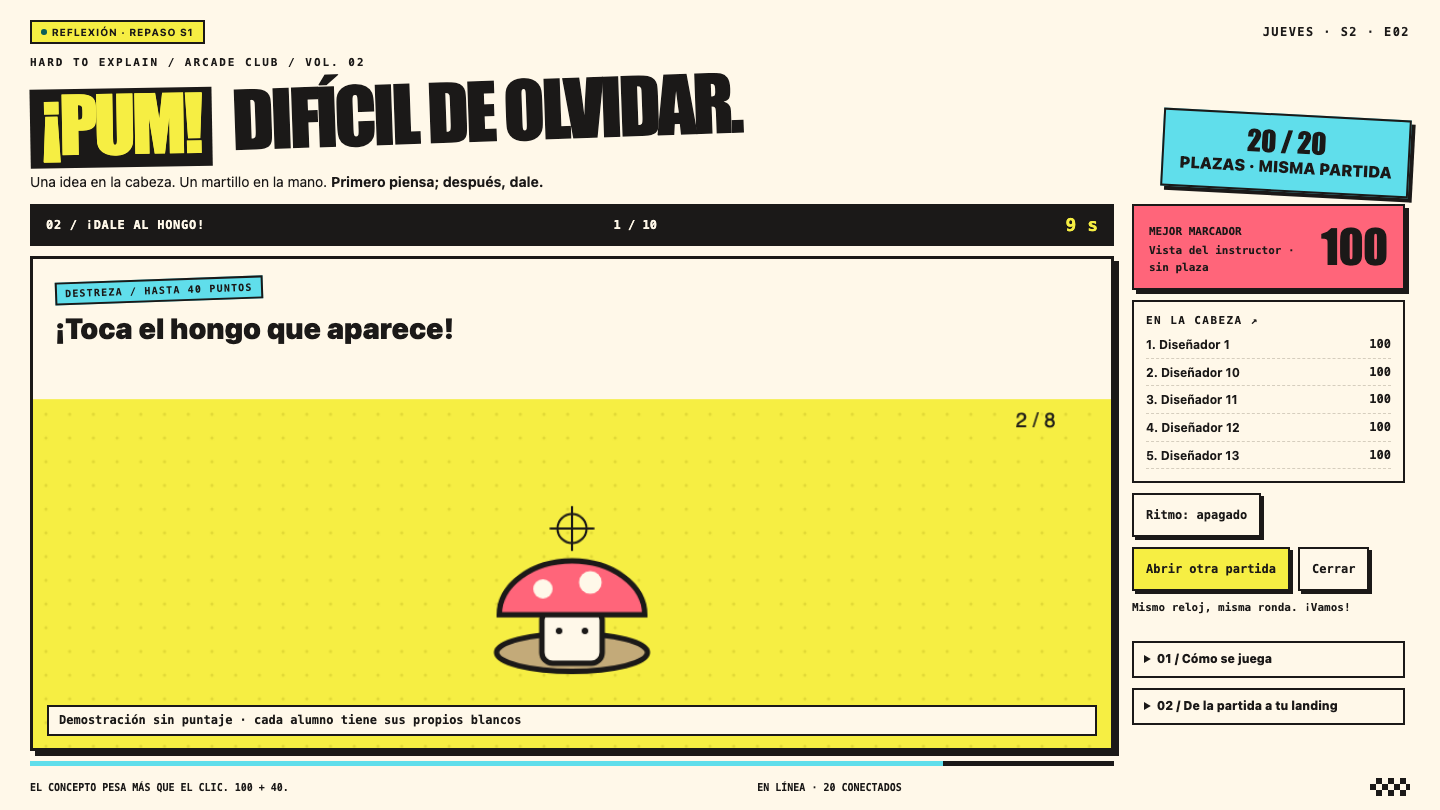
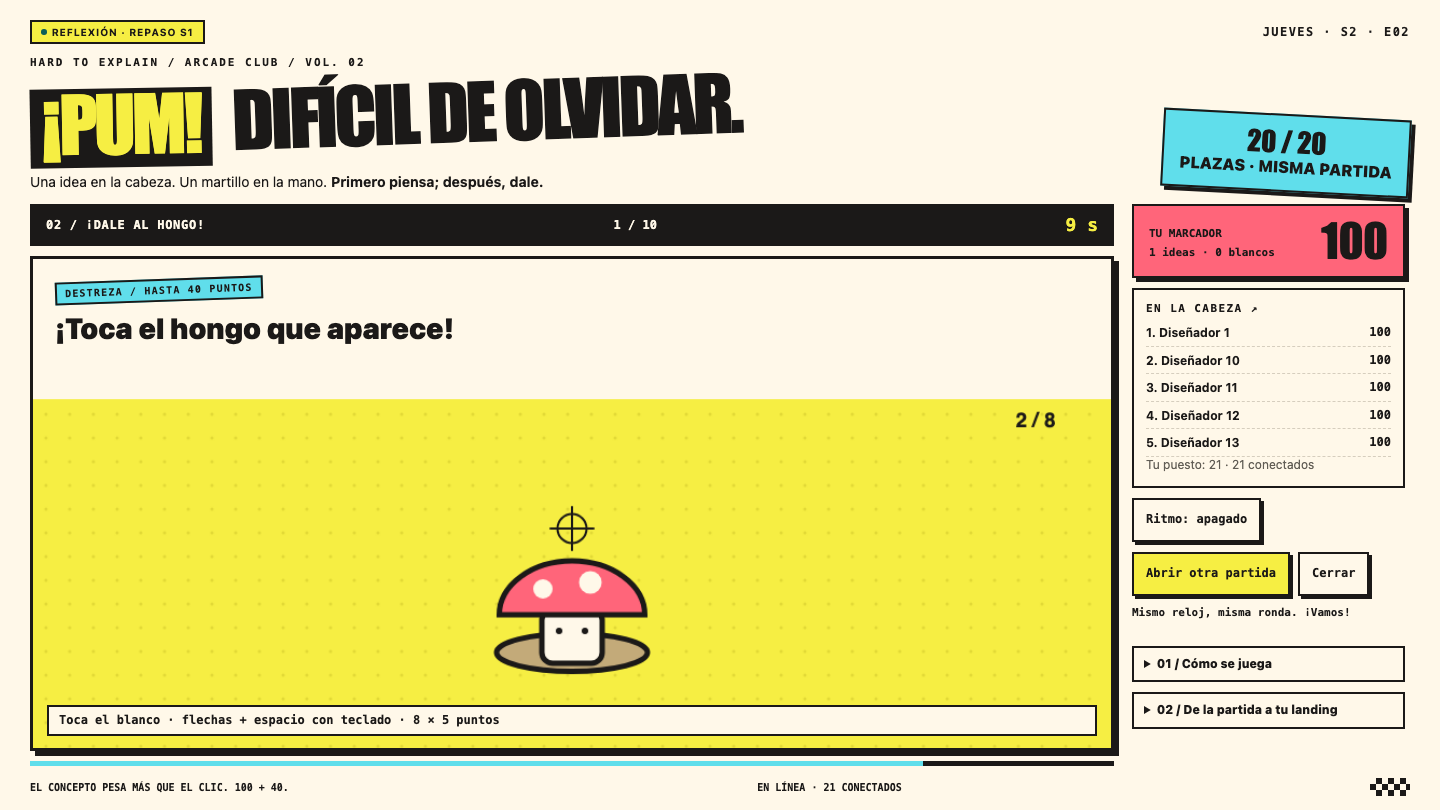
fix(live): permite jugar al instructor y entrar al responder

Changed region(s): [[0.7812, 0.2778, 1.0, 0.8951], [0.0312, 0.8642, 0.375, 0.8951]]

diff --git a/lms/content/courses/hard-to-explain-diseno/live/de-02/02-pum-repaso/escena.html b/lms/content/courses/hard-to-explain-diseno/live/de-02/02-pum-repaso/escena.html
@@ -29,7 +29,7 @@ body{background:var(--papel);color:var(--negro);font:16px/1.4 system-ui,sans-ser
 <div class="botones"><button type="button" class="accion" id="entrar" disabled>Entrar a la partida ↗</button><button type="button" class="accion sec" id="sonido" aria-pressed="false">Ritmo: apagado</button></div>
 <div class="staff" id="staff" hidden><button class="accion" id="iniciar" type="button">Iniciar 10 rondas</button><button class="accion sec" id="terminar" type="button">Cerrar</button></div>
 <p id="estado" class="estado" role="status" aria-live="polite">Conectando con la sala…</p>
-<details class="paso" id="reglas" open><summary>01 / Cómo se juega</summary><div><ol><li>14 s: elige una respuesta. Se guarda una sola.</li><li>10 s: golpea hongos o revienta globos. Ocho blancos, 5 puntos cada uno.</li><li>5 s: mira la respuesta y entiende el porqué.</li></ol><p>Todos siguen el mismo reloj. Fallar no resta. El instructor abre la ronda; su cuenta no ocupa plaza.</p></div></details>
+<details class="paso" id="reglas" open><summary>01 / Cómo se juega</summary><div><ol><li>14 s: elige una respuesta. Se guarda una sola.</li><li>10 s: golpea hongos o revienta globos. Ocho blancos, 5 puntos cada uno.</li><li>5 s: mira la respuesta y entiende el porqué.</li></ol><p>Todos siguen el mismo reloj. Fallar no resta. El instructor también juega; tiene una plaza adicional a las 20 del alumnado.</p></div></details>
 <details class="paso" id="reflexion"><summary>02 / De la partida a tu landing</summary><div><p>Al cerrar, elige una idea que ahora puedas explicar. No basta ganar: úsala en tu próximo pedido.</p><textarea id="pedido" aria-label="Pedido para copiar al agente" readonly>Rol: editor de contenido web. Contexto: voy a crear la landing de mi cliente. Tarea: organiza su texto por secciones, primero para teléfono. Límites: no inventes precios, testimonios ni datos. Formato: lista de secciones y dudas pendientes. Comprobación: cada afirmación debe salir del texto original. Primero pídeme el texto del cliente; no construyas aún.</textarea><button type="button" class="accion sec" id="copiar">Copiar para el agente</button></div></details>
 </aside>
 </section>
@@ -47,18 +47,18 @@ function now(){return Date.now()+offset}
 function phase(s=state){if(!s)return 'sala';if(['sala','final'].includes(s.fase))return s.fase;const t=now(),start=s.destreza_inicio_ms;if(t>=start&&t<start+10000)return 'destreza';if(t<start)return 'pregunta';if(s.fase==='explicacion'&&t<s.vence_ms)return 'explicacion';return 'sincronizando'}
 function seed(id,r){let n=2166136261;for(let i=0;i<id.length;i++)n=Math.imul(n^id.charCodeAt(i),16777619)>>>0;return(n+Math.imul(r,7919))>>>0}
 function target(t=now()){if(!state)return null;const elapsed=t-state.destreza_inicio_ms,slot=Math.floor(elapsed/1250);if(slot<0||slot>7)return null;const progress=(elapsed%1250)/1250,n=state.yo?.semilla??seed(state.yo?.id||'demo',state.ronda);if(state.ronda%2===0)return{x:.18+((n%3+slot)%3)*.32,y:.28+(slot%2)*.38,slot,progress};return{x:.5+.28*Math.sin(slot*1.7+progress*2+(n%1000)/1000*Math.PI*2),y:.78-.58*progress,slot,progress}}
-function render(){if(!state)return;const s=state,p=phase(),me=s.yo;if(s.staff&&!staffLoaded){staffLoaded=true;$('reglas').open=false;}$('aforo').textContent=s.inscritos+' / '+s.capacidad;$('etiqueta-puntos').textContent=s.staff?'Mejor marcador':'Tu marcador';$('puntos').textContent=me?.puntos??(s.staff?s.tabla[0]?.puntos??0:0);$('detalle').textContent=me?me.aciertos+' ideas · '+me.golpes+' blancos':s.staff?'Vista del instructor · sin plaza':'Puedes entrar o mirar como espectador';$('ronda').textContent=p==='sala'?'10 rondas · 4 min 50 s':(s.ronda+1)+' / '+s.rondas;
+function render(){if(!state)return;const s=state,p=phase(),me=s.yo;if(s.staff&&!staffLoaded){staffLoaded=true;$('reglas').open=false;}$('aforo').textContent=s.inscritos+' / '+s.capacidad;$('etiqueta-puntos').textContent=me?'Tu marcador':s.staff?'Mejor marcador':'Tu marcador';$('puntos').textContent=me?.puntos??(s.staff?s.tabla[0]?.puntos??0:0);$('detalle').textContent=me?me.aciertos+' ideas · '+me.golpes+' blancos':s.staff?'Puedes dirigir y también jugar':'Puedes entrar o mirar como espectador';$('ronda').textContent=p==='sala'?'10 rondas · 4 min 50 s':(s.ronda+1)+' / '+s.rondas;
 $('fase').textContent=({sala:'El calentamiento',pregunta:'01 / Piensa',destreza:s.reto==='hongos'?'02 / ¡Dale al hongo!':'02 / ¡Revienta el globo!',explicacion:'03 / Qué nos llevamos',final:'Cierre / Difícil de olvidar',sincronizando:'Sincronizando…'})[p];
 $('tipo').textContent=({sala:'REPASO DE LA SESIÓN 1',pregunta:'CONCEPTO / 100 PUNTOS',destreza:'DESTREZA / HASTA 40 PUNTOS',explicacion:'APRENDER > ADIVINAR',final:'LLEVA UNA IDEA A TU LANDING',sincronizando:'EL RELOJ MANDA'})[p];
 $('pregunta').textContent=p==='sala'?'¿Qué recuerdas de la primera sesión?':p==='explicacion'?s.explicacion:p==='destreza'?(s.reto==='hongos'?'¡Toca el hongo que aparece!':'¡Atrapa el globo antes de que suba!'):p==='final'?'Lo que recuerdas, ahora úsalo en tu pedido.':s.pregunta?.texto||'Esperando la siguiente ronda…';
-$('pista').textContent=p==='sala'?'Entra con tu cuenta. El instructor da la salida.':p==='pregunta'?(me?.respuesta!=null?'Respuesta guardada. La explicación llega al cerrar el reto.':'Elige A, B o C. Sólo una respuesta por ronda.'):p==='destreza'?(me?'Toca el blanco · flechas + espacio con teclado · 8 × 5 puntos':'Demostración sin puntaje · cada alumno tiene sus propios blancos'):p==='explicacion'?'Respuesta: '+(s.pregunta?.opciones[s.correcta]||''):'Sin eliminación. Compara lo aprendido, no sólo tu puesto.';
-$('entrar').hidden=!!me||s.staff;$('entrar').disabled=busy||s.inscritos>=s.capacidad;$('staff').hidden=!s.staff;$('iniciar').textContent=s.fase==='sala'?'Iniciar 10 rondas':'Abrir otra partida';$('terminar').disabled=['sala','final'].includes(s.fase);
-$('respuestas').hidden=!['pregunta','explicacion','sincronizando'].includes(p);const signature=JSON.stringify([s.partida,s.ronda,p,me?.respuesta,s.correcta,!!me]);if($('respuestas').dataset.key!==signature){$('respuestas').dataset.key=signature;$('respuestas').replaceChildren();const options=s.pregunta?.opciones||['Piensa con seis partes','Demuestra lo que recuerdas','Juega con toda la clase'];options.forEach((text,i)=>{const b=document.createElement('button');b.type='button';b.className='respuesta';b.setAttribute('aria-pressed',String(me?.respuesta===i));b.disabled=p!=='pregunta'||!me||me.respuesta!=null||busy;const tag=document.createElement('b');tag.textContent='ABC'[i];const label=document.createElement('span');label.textContent=text;b.append(tag,label);if(['explicacion','final'].includes(p)&&s.correcta===i)b.classList.add('correcta');b.onclick=()=>act('responder',{respuesta:i});$('respuestas').append(b)});}
+$('pista').textContent=p==='sala'?'Entra con tu cuenta. El instructor da la salida.':p==='pregunta'?(!me?'Elige una opción para entrar y responder. O pulsa Entrar y jugar.':me?.respuesta!=null?'Respuesta guardada. La explicación llega al cerrar el reto.':'Elige A, B o C. Sólo una respuesta por ronda.'):p==='destreza'?(me?'Toca el blanco · flechas + espacio con teclado · 8 × 5 puntos':'Demostración sin puntaje · cada alumno tiene sus propios blancos'):p==='explicacion'?'Respuesta: '+(s.pregunta?.opciones[s.correcta]||''):'Sin eliminación. Compara lo aprendido, no sólo tu puesto.';
+$('entrar').hidden=!!me;$('entrar').textContent='Entrar y jugar ↗';$('entrar').disabled=busy||(s.staff?(s.instructores||0)>=1:s.inscritos>=s.capacidad);$('staff').hidden=!s.staff;$('iniciar').textContent=s.fase==='sala'?'Iniciar 10 rondas':'Abrir otra partida';$('terminar').disabled=['sala','final'].includes(s.fase);
+$('respuestas').hidden=!['pregunta','explicacion','sincronizando'].includes(p);const puedeEntrar=s.staff?(s.instructores||0)<1:s.inscritos<s.capacidad;const signature=JSON.stringify([s.partida,s.ronda,p,me?.respuesta,s.correcta,!!me,puedeEntrar]);if($('respuestas').dataset.key!==signature){$('respuestas').dataset.key=signature;$('respuestas').replaceChildren();const options=s.pregunta?.opciones||['Piensa con seis partes','Demuestra lo que recuerdas','Juega con toda la clase'];options.forEach((text,i)=>{const b=document.createElement('button');b.type='button';b.className='respuesta';b.setAttribute('aria-pressed',String(me?.respuesta===i));b.disabled=p!=='pregunta'||(!me&&!puedeEntrar)||me?.respuesta!=null||busy;const tag=document.createElement('b');tag.textContent='ABC'[i];const label=document.createElement('span');label.textContent=text;b.append(tag,label);if(['explicacion','final'].includes(p)&&s.correcta===i)b.classList.add('correcta');b.onclick=()=>act('responder',{respuesta:i});$('respuestas').append(b)});}
 $('tabla').replaceChildren();s.tabla.slice(0,5).forEach((row,i)=>{const li=document.createElement('li');if(row.id===me?.id)li.className='yo';const name=document.createElement('span');name.textContent=(i+1)+'. '+row.nombre;const pts=document.createElement('b');pts.textContent=row.puntos;li.append(name,pts);$('tabla').append(li)});$('tabla-vacia').hidden=s.tabla.length>0;$('puesto').textContent=me?'Tu puesto: '+s.puesto+' · '+s.conectados+' conectados':'';
 }
 async function request(method='GET',body){if(!endpoint)throw Error('Abre esta escena desde el LIVE de tu sesión.');const serial=++requestSerial,start=Date.now(),controller=new AbortController(),timeout=setTimeout(()=>controller.abort(),6000);try{const response=await fetch(endpoint,{method,credentials:'same-origin',headers:body?{'Content-Type':'application/json'}:{},body:body?JSON.stringify(body):undefined,signal:controller.signal,cache:'no-store'});const data=await response.json();if(!response.ok)throw Error(data.error?.message||data.message||'No se pudo completar la jugada.');if(serial<appliedSerial||(state?.partida===data.partida&&data.ahora_ms<state.ahora_ms))return state;appliedSerial=serial;offset=data.ahora_ms-(start+Date.now())/2;const changed=state?.partida&&state.partida!==data.partida;state=data;failures=0;$('conexion').textContent='EN LÍNEA · '+data.conectados+' CONECTADOS';if(changed)status('Nueva partida sincronizada.');render();return data}finally{clearTimeout(timeout)}}
 async function poll(){if(document.hidden||polling)return;polling=true;try{await request();if(!busy&&failures===0)status(state.fase==='sala'?(state.staff?'Reúne a la clase y da la salida.':'La sala está lista. Entra y espera la salida.'):state.fase==='final'?'Partida cerrada. Abre «De la partida a tu landing».':'Mismo reloj, misma ronda. ¡Vamos!')}catch(e){failures++;status(e.name==='AbortError'?'La conexión tarda. Reintentando…':e.message,true);$('conexion').textContent='RECONECTANDO';}finally{polling=false;clearTimeout(timer);if(!document.hidden)timer=setTimeout(poll,Math.min(8000,1500*(failures+1))+Math.random()*200)}}
-async function act(accion,extra={}){if(busy)return;busy=true;try{await request('POST',{accion,partida:state?.partida||'',ronda:state?.ronda??0,...extra});if(accion==='unirse'){status('¡Dentro! El instructor da la salida.');$('reglas').open=false;}if(accion==='responder')status('Respuesta guardada. ¡Prepárate para el reto!');if(accion==='golpear'){flash={t:performance.now(),x:extra.x,y:extra.y};status('¡PUM! +5.');}if(accion==='iniciar')status('¡Empieza la partida!')}catch(e){status(e.name==='AbortError'?'La jugada tarda. Comprueba el marcador antes de repetir.':e.message,true)}finally{busy=false;$('respuestas').dataset.key='';render()}}
+async function act(accion,extra={}){if(busy)return;const expected={partida:state?.partida||'',ronda:state?.ronda??0};busy=true;try{if(accion==='responder'&&!state?.yo){await request('POST',{accion:'unirse'});$('reglas').open=false;}await request('POST',{accion,...expected,...extra});if(accion==='unirse'){status('¡Dentro! El instructor da la salida.');$('reglas').open=false;}if(accion==='responder')status('Respuesta guardada. ¡Prepárate para el reto!');if(accion==='golpear'){flash={t:performance.now(),x:extra.x,y:extra.y};status('¡PUM! +5.');}if(accion==='iniciar')status(state.yo?'¡Empieza la partida! Tú también juegas.':'¡Empieza la partida!')}catch(e){status(e.name==='AbortError'?'La jugada tarda. Comprueba el marcador antes de repetir.':e.message,true)}finally{busy=false;$('respuestas').dataset.key='';render()}}
 function hit(x,y){if(phase()!=='destreza'||!state?.yo||busy||performance.now()-lastTap<250)return;lastTap=performance.now();const t=target();if(!t||state.yo.slots.includes(t.slot))return;act('golpear',{slot:t.slot,x,y,at_ms:Math.floor(now())})}
 $('entrar').onclick=()=>act('unirse');$('iniciar').onclick=()=>act('iniciar');$('terminar').onclick=()=>act('terminar');
 for(const el of document.querySelectorAll('details.paso'))el.addEventListener('toggle',()=>{if(el.open)for(const other of document.querySelectorAll('details.paso'))if(other!==el)other.open=false});

diff --git a/lms/api/internal/httpapi/live_repaso.go b/lms/api/internal/httpapi/live_repaso.go
@@ -50,6 +50,7 @@ type repasoAlumno struct {
 	Puntos     int    `json:"puntos"`
 	Aciertos   int    `json:"aciertos"`
 	Golpes     int    `json:"golpes"`
+	Instructor bool   `json:"instructor"`
 	visto      time.Time
 	respuestas map[int]int
 	golpes     map[int]map[int]bool
@@ -92,16 +93,33 @@ func (a *repasoArena) fase(now time.Time) (string, int, int64) {
 	}
 	return "explicacion", ronda, start + repasoRondaMS
 }
+func (a *repasoArena) plazas() (alumnos, instructores int) {
+	for _, j := range a.jugadores {
+		if j.Instructor {
+			instructores++
+		} else {
+			alumnos++
+		}
+	}
+	return
+}
 func (a *repasoArena) unir(sub, nombre string, now time.Time) (*repasoAlumno, error) {
+	return a.unirComo(sub, nombre, false, now)
+}
+func (a *repasoArena) unirComo(sub, nombre string, instructor bool, now time.Time) (*repasoAlumno, error) {
 	if j := a.jugadores[sub]; j != nil {
 		j.visto = now
 		return j, nil
 	}
-	if len(a.jugadores) >= repasoMax {
+	alumnos, profes := a.plazas()
+	if !instructor && alumnos >= repasoMax {
 		return nil, noVale("Las 20 plazas están ocupadas. Puedes seguir como espectador.")
 	}
+	if instructor && profes >= 1 {
+		return nil, noVale("Otra cuenta de instructor ya ocupa la plaza de juego.")
+	}
 	a.secuencia++
-	j := &repasoAlumno{ID: fmt.Sprintf("p%d", a.secuencia), Nombre: nombre, visto: now, respuestas: map[int]int{}, golpes: map[int]map[int]bool{}, intentos: map[int64]int{}}
+	j := &repasoAlumno{ID: fmt.Sprintf("p%d", a.secuencia), Nombre: nombre, Instructor: instructor, visto: now, respuestas: map[int]int{}, golpes: map[int]map[int]bool{}, intentos: map[int64]int{}}
 	a.jugadores[sub] = j
 	return j, nil
 }
@@ -235,7 +253,7 @@ func (a *repasoArena) vista(sub string, staff bool, now time.Time) map[string]an
 			hitSlots = append(hitSlots, s)
 		}
 		sort.Ints(hitSlots)
-		yo = map[string]any{"id": p.ID, "puntos": p.Puntos, "aciertos": p.Aciertos, "golpes": p.Golpes, "respuesta": elegida, "slots": hitSlots, "semilla": semillaRepaso(p.ID, ronda)}
+		yo = map[string]any{"id": p.ID, "puntos": p.Puntos, "aciertos": p.Aciertos, "golpes": p.Golpes, "respuesta": elegida, "slots": hitSlots, "semilla": semillaRepaso(p.ID, ronda), "instructor": p.Instructor}
 		for i, t := range tabla {
 			if t["id"] == p.ID {
 				puesto = i + 1
@@ -245,7 +263,8 @@ func (a *repasoArena) vista(sub string, staff bool, now time.Time) map[string]an
 	if !staff && len(tabla) > 5 {
 		tabla = tabla[:5]
 	}
-	v := map[string]any{"partida": a.partida, "ahora_ms": now.UnixMilli(), "fase": fase, "ronda": ronda, "rondas": len(repasoBanco), "vence_ms": vence, "staff": staff, "capacidad": repasoMax, "inscritos": len(a.jugadores), "conectados": conectados, "yo": yo, "puesto": puesto, "tabla": tabla}
+	alumnos, profesores := a.plazas()
+	v := map[string]any{"instructores": profesores, "partida": a.partida, "ahora_ms": now.UnixMilli(), "fase": fase, "ronda": ronda, "rondas": len(repasoBanco), "vence_ms": vence, "staff": staff, "capacidad": repasoMax, "inscritos": alumnos, "conectados": conectados, "yo": yo, "puesto": puesto, "tabla": tabla}
 	if fase != "sala" {
 		q := repasoBanco[ronda]
 		v["pregunta"] = map[string]any{"texto": q.Texto, "opciones": q.Opciones}
@@ -302,6 +321,8 @@ func (s *Server) liveRepasoPost(w http.ResponseWriter, r *http.Request, p *Princ
 			return
 		}
 		if in.Accion == "iniciar" {
+			// El instructor puede dirigir y jugar. Su plaza no desplaza a los 20 alumnos.
+			_, _ = a.unirComo(p.ID, nombreMuro(p), true, now)
 			a.partida = fmt.Sprintf("%d", now.UnixNano())
 			a.inicio = now
 			a.cerrado = false
@@ -324,11 +345,7 @@ func (s *Server) liveRepasoPost(w http.ResponseWriter, r *http.Request, p *Princ
 			}
 		}
 	case "unirse":
-		if p.Staff() {
-			badRequest(w, "el instructor dirige como espectador")
-			return
-		}
-		if _, err := a.unir(p.ID, nombreMuro(p), now); err != nil {
+		if _, err := a.unirComo(p.ID, nombreMuro(p), p.Staff(), now); err != nil {
 			writeErr(w, 409, "sala_llena", err.Error())
 			return
 		}

diff --git a/lms/api/internal/httpapi/live_repaso_browser_test.go b/lms/api/internal/httpapi/live_repaso_browser_test.go
@@ -1,0 +1,91 @@
+package httpapi
+
+import (
+	"encoding/json"
+	"io"
+	"net/http"
+	"net/http/httptest"
+	"os"
+	"os/exec"
+	"path/filepath"
+	"runtime"
+	"strings"
+	"testing"
+	"time"
+)
+
+// Integración real de navegador: Go, cookies y CSP reales. El reloj de la sala
+// se adelanta sólo en este fixture para no esperar cinco minutos; no se simulan
+// respuestas, colisiones ni puntos y no se añaden rutas de QA a producción.
+func TestRepasoNavegadorReal(t *testing.T) {
+	if os.Getenv("LMS_REPASO_BROWSER_QA") != "1" {
+		t.Skip("activa LMS_REPASO_BROWSER_QA=1 con Node/Chrome/Playwright instalados")
+	}
+	e := newEnvRepaso(t)
+	_, file, _, _ := runtime.Caller(0)
+	lms := filepath.Clean(filepath.Join(filepath.Dir(file), "..", "..", ".."))
+	source := filepath.Join(lms, "content", "courses", "hard-to-explain-diseno", "live")
+	dest := filepath.Dir(e.s.Content.Get().Escena("de-02", repasoEscena).HTMLPath)
+	comun := filepath.Join(filepath.Dir(filepath.Dir(dest)), "_comun")
+	if err := os.MkdirAll(comun, 0755); err != nil {
+		t.Fatal(err)
+	}
+	for from, to := range map[string]string{filepath.Join(source, "de-02", repasoEscena, "escena.html"): filepath.Join(dest, "escena.html"), filepath.Join(source, "_comun", "escena.css"): filepath.Join(comun, "escena.css"), filepath.Join(source, "_comun", "p5-1.11.1.min.js"): filepath.Join(comun, "p5-1.11.1.min.js")} {
+		b, err := os.ReadFile(from)
+		if err != nil {
+			t.Fatal(err)
+		}
+		if err = os.WriteFile(to, b, 0644); err != nil {
+			t.Fatal(err)
+		}
+	}
+	registered := e.call("POST", "/api/v1/auth/register", "", false, map[string]string{"email": "juega@x.test", "name": "Juega", "password": "juega-1234", "invite_code": "abc"}, "")
+	if registered.code != 201 {
+		t.Fatal("no se pudo crear el alumno de prueba")
+	}
+	handler := e.s.Handler()
+	server := httptest.NewServer(http.HandlerFunc(func(w http.ResponseWriter, r *http.Request) {
+		if r.URL.Path == "/__qa/frame" {
+			w.Header().Set("Content-Type", "text/html")
+			io.WriteString(w, `<!doctype html><html><head><meta name="viewport" content="width=device-width,initial-scale=1"><style>html,body{height:100%;margin:0}iframe{width:100%;height:100%;border:0;display:block}</style></head><body><iframe title="Escena LIVE" src="/api/v1/live/de-02/escenas/02-pum-repaso/html"></iframe></body></html>`)
+			return
+		}
+		if r.URL.Path == "/__qa/reloj" {
+			var in struct {
+				Fase  string `json:"fase"`
+				Ronda int    `json:"ronda"`
+			}
+			if json.NewDecoder(r.Body).Decode(&in) != nil {
+				w.WriteHeader(400)
+				return
+			}
+			delta := int64(in.Ronda)*repasoRondaMS + 200
+			if in.Fase == "destreza" {
+				delta += repasoPreguntaMS
+			}
+			if in.Fase == "explicacion" {
+				delta += repasoPreguntaMS + repasoDestrezaMS
+			}
+			e.s.repaso.Lock()
+			e.s.repaso.inicio = time.Now().Add(-time.Duration(delta) * time.Millisecond)
+			e.s.repaso.Unlock()
+			writeJSON(w, 200, map[string]bool{"ok": true})
+			return
+		}
+		handler.ServeHTTP(w, r)
+	}))
+	defer server.Close()
+	out := os.Getenv("LMS_REPASO_QA_DIR")
+	if out == "" {
+		out = t.TempDir()
+	}
+	// Credenciales sólo del fixture temporal, nunca las de producción.
+	input, _ := json.Marshal(map[string]any{"base": server.URL, "out": out, "teacher": map[string]string{"email": "profe@x.test", "password": "profe1234"}, "student": map[string]string{"email": "juega@x.test", "password": "juega-1234"}})
+	cmd := exec.Command("node", filepath.Join(lms, "scripts", "probar-repaso-real.mjs"))
+	cmd.Stdin = strings.NewReader(string(input))
+	result, err := cmd.CombinedOutput()
+	if err != nil {
+		t.Fatalf("navegador/API real: %v\n%s", err, result)
+	}
+	t.Log(strings.TrimSpace(string(result)))
+}

diff --git a/lms/api/internal/httpapi/live_repaso_test.go b/lms/api/internal/httpapi/live_repaso_test.go
@@ -142,7 +142,7 @@ func TestRepasoGlobosYTolerancia(t *testing.T) {
 		t.Fatal("falta limitar spam")
 	}
 }
-func TestRepasoHTTPPermisosYContenido(t *testing.T) {
+func newEnvRepaso(t *testing.T) *env {
 	e := newEnvEscenas(t)
 	dir := writeFixture(t)
 	// Fixture aislado con la lección real; no se modifican otros cursos.
@@ -176,6 +176,10 @@ func TestRepasoHTTPPermisosYContenido(t *testing.T) {
 		t.Fatal(err)
 	}
 	e.s.Content = cs
+	return e
+}
+func TestRepasoHTTPPermisosYContenido(t *testing.T) {
+	e := newEnvRepaso(t)
 	profe := e.login("profe@x.test", "profe1234")
 	e.call("POST", "/api/v1/auth/register", "", false, map[string]string{"email": "juega@x.test", "name": "Juega", "password": "juega-1234", "invite_code": "abc"}, "")
 	student := e.login("juega@x.test", "juega-1234")
@@ -192,6 +196,15 @@ func TestRepasoHTTPPermisosYContenido(t *testing.T) {
 	r := e.call("POST", url, profe, false, map[string]any{"accion": "iniciar"}, "")
 	if r.code != 200 || r.body["fase"] != "pregunta" {
 		t.Fatal("iniciar", r.code, r.raw)
+	}
+	if r.body["yo"] == nil {
+		t.Fatal("el instructor debe entrar al iniciar")
+	}
+	if v := e.call("POST", url, profe, false, map[string]any{"accion": "unirse"}, ""); v.code != 200 {
+		t.Fatal("el instructor también puede unirse", v.code)
+	}
+	if v := e.call("POST", url, profe, false, map[string]any{"accion": "responder", "partida": r.body["partida"], "ronda": 0, "respuesta": repasoBanco[0].Buena}, ""); v.code != 200 {
+		t.Fatal("el instructor no pudo responder", v.code)
 	}
 	if _, ok := r.body["correcta"]; ok {
 		t.Fatal("filtra respuesta")
@@ -211,5 +224,41 @@ func TestRepasoHTTPPermisosYContenido(t *testing.T) {
 	}
 	if r = e.call("POST", url, profe, false, map[string]any{"accion": "terminar"}, ""); r.code != 200 || r.body["fase"] != "final" {
 		t.Fatal("cerrar", r.raw)
+	}
+}
+
+func TestRepasoInstructorConSalaLlena(t *testing.T) {
+	a := nuevoRepaso()
+	now := time.Unix(5000, 0)
+	a.inicio = now
+	for i := 0; i < 20; i++ {
+		if _, err := a.unir(fmt.Sprint(i), "Alumno", now); err != nil {
+			t.Fatal(err)
+		}
+	}
+	prof, err := a.unirComo("profe", "Instructor", true, now)
+	if err != nil {
+		t.Fatal(err)
+	}
+	if len(a.jugadores) != 21 || !prof.Instructor {
+		t.Fatal("el instructor debe tener una plaza adicional")
+	}
+	if alumnos, profes := a.plazas(); alumnos != 20 || profes != 1 {
+		t.Fatal("cupo incorrecto", alumnos, profes)
+	}
+	if _, err = a.unirComo("otro-profe", "Otro instructor", true, now); err == nil {
+		t.Fatal("cupo de instructor sin límite")
+	}
+	answer := repasoJugada{Accion: "responder", Partida: a.partida, Ronda: 0, Respuesta: enteroRepaso(repasoBanco[0].Buena)}
+	if err = a.jugar(prof, answer, now); err != nil {
+		t.Fatal(err)
+	}
+	at := now.Add(14500 * time.Millisecond)
+	x, y := blancoRepaso(semillaRepaso(prof.ID, 0), 0, 0, .4)
+	if err = a.jugar(prof, repasoJugada{Accion: "golpear", Partida: a.partida, Ronda: 0, Slot: 0, X: x, Y: y, AtMS: at.UnixMilli()}, at); err != nil {
+		t.Fatal(err)
+	}
+	if prof.Puntos != 105 || prof.Golpes != 1 {
+		t.Fatal("el instructor no suma", prof.Puntos, prof.Golpes)
 	}
 }

diff --git a/docs/LIVE_DE02_PUM_REPASO.md b/docs/LIVE_DE02_PUM_REPASO.md
@@ -6,8 +6,8 @@ explicar? ¡No! · Diseño y edición con IA». Se añade sólo E02; E01 y el se
 
 ## Qué hace el alumno
 
-Entra con su cuenta del LMS. Hay 20 plazas, más espectadores y la cuenta del
-instructor (sin ocupar plaza). La partida comparte reloj y clasificación.
+Entra con su cuenta del LMS. Hay 20 plazas de alumnos y una adicional para el instructor, que también
+puede responder y golpear sin perder los controles de la partida. La partida comparte reloj y clasificación.
 Son diez rondas de 29 segundos: 14 para una pregunta, 10 para destreza y 5
 para la explicación. Total de juego: 4 min 50 s; bloque de taller: 10 min con
 entrada, reglas y reflexión.
@@ -21,8 +21,9 @@ entrada, reglas y reflexión.
   no hay un único objeto que prive de turno a los otros diecinueve alumnos.
 - Puntero o tacto; teclado con flechas y espacio al enfocar la arena.
 
-El instructor abre o cierra la partida desde la escena. Su proyector muestra
-blancos de demostración, sin puntaje, y los cinco primeros puestos. Puede abrir
+El instructor abre o cierra la partida desde la escena. Al iniciarla entra
+a jugar automáticamente y su proyector muestra su blanco y su puntaje real.
+También puede pulsar «Entrar y jugar» en una partida ya iniciada. Puede abrir
 otra partida. Las cuentas ya conocidas se reconectan con sus puntos; un jugador
 21 mira como espectador. Una nueva partida libera plazas inactivas de más de
 45 s y pone los puntajes a cero.
@@ -78,6 +79,12 @@ nativos. Cumple la CSP de las escenas sin añadir permisos ni relajar cabeceras.
 - Una partida/ronda vieja, acción fuera de fase, blanco repetido o golpe que
   no toca el blanco no suma. El cliente nunca envía puntaje.
 
+Al pulsar una respuesta sin haberse inscrito, la escena solicita primero
+`unirse` y después envía esa respuesta para la partida y ronda que el alumno
+estaba viendo. `iniciar` inscribe automáticamente al instructor si su plaza
+está disponible; `unirse` admite tanto alumnos como instructor. La respuesta
+GET informa `instructores` e incluye la condición `instructor` en `yo`.
+
 El banco es privado en Go y sólo revela la respuesta durante explicación o
 cierre. Las rutas comprueban visibilidad de la lección y existencia de E02; no
 habilitan el juego en otras lecciones. La cuenta pública de juego es `pN`, no
@@ -86,7 +93,7 @@ el identificador privado del usuario. Se usa el nombre corto existente del LMS.
 Los puntos son del juego: no se guardan como notas ni sustituyen la entrega
 o el «Lo logré» del LIVE.
 
-Estado acotado en memoria de una instancia Go: veinte participantes, diez
+Estado acotado en memoria de una instancia Go: veinte alumnos más un instructor, diez
 respuestas y ocho blancos por ronda. Un mutex serializa las operaciones. No
 hay migración ni proceso de simulación. Reiniciar el LMS pierde la partida;
 varias réplicas independientes no comparten este estado. Esta decisión sigue
@@ -137,3 +144,30 @@ ssh -i ~/Downloads/curdilmer.pem ubuntu@3.151.56.55
 No se cambia E01, `lms/render`, otras clases ni la configuración del LIVE
 encendido. Después del despliegue, el instructor elige E02 y pulsa «Iniciar
 10 rondas» cuando los alumnos estén dentro.
+
+
+## Corrección: instructor jugador y prueba con API real
+
+La versión inicial excluía al instructor y deshabilitaba sus respuestas y sus
+golpes. La prueba con API simulada comprobaba esa exclusión en lugar de detectar
+el problema de uso. Ahora el instructor dispone de plaza adicional, entra al
+iniciar y juega con las mismas validaciones que el alumnado. Los estudiantes
+pueden entrar con el botón o al elegir su primera respuesta.
+
+La integración real usa dos sesiones temporales, cookies reales, la CSP y un
+iframe del mismo origen; llama al servidor Go sin `page.route`. El reloj se
+adelanta únicamente dentro del fixture para recorrer las fases. Toca hongos y
+globos localizando sus píxeles en el canvas: las colisiones y los puntos los
+valida el servidor. También comprueba que fallar el blanco o repetir una
+respuesta no suma y que el instructor conserva el control de cierre.
+
+```sh
+cd lms/api
+LMS_REPASO_BROWSER_QA=1 LMS_REPASO_QA_DIR=/tmp/jmd-repaso-real \
+  go test ./internal/httpapi/ -run 'TestRepaso' -count=1 -v
+```
+
+`live_repaso_browser_test.go` no registra rutas ni credenciales en producción.
+La cuenta de instructor y la del alumno pertenecen sólo al fixture que se
+elimina al terminar. Node y Playwright son requisitos únicamente de esta prueba
+opcional, no del binario del LMS. Evidencia real en `qa/de-02-pum/real/`.
